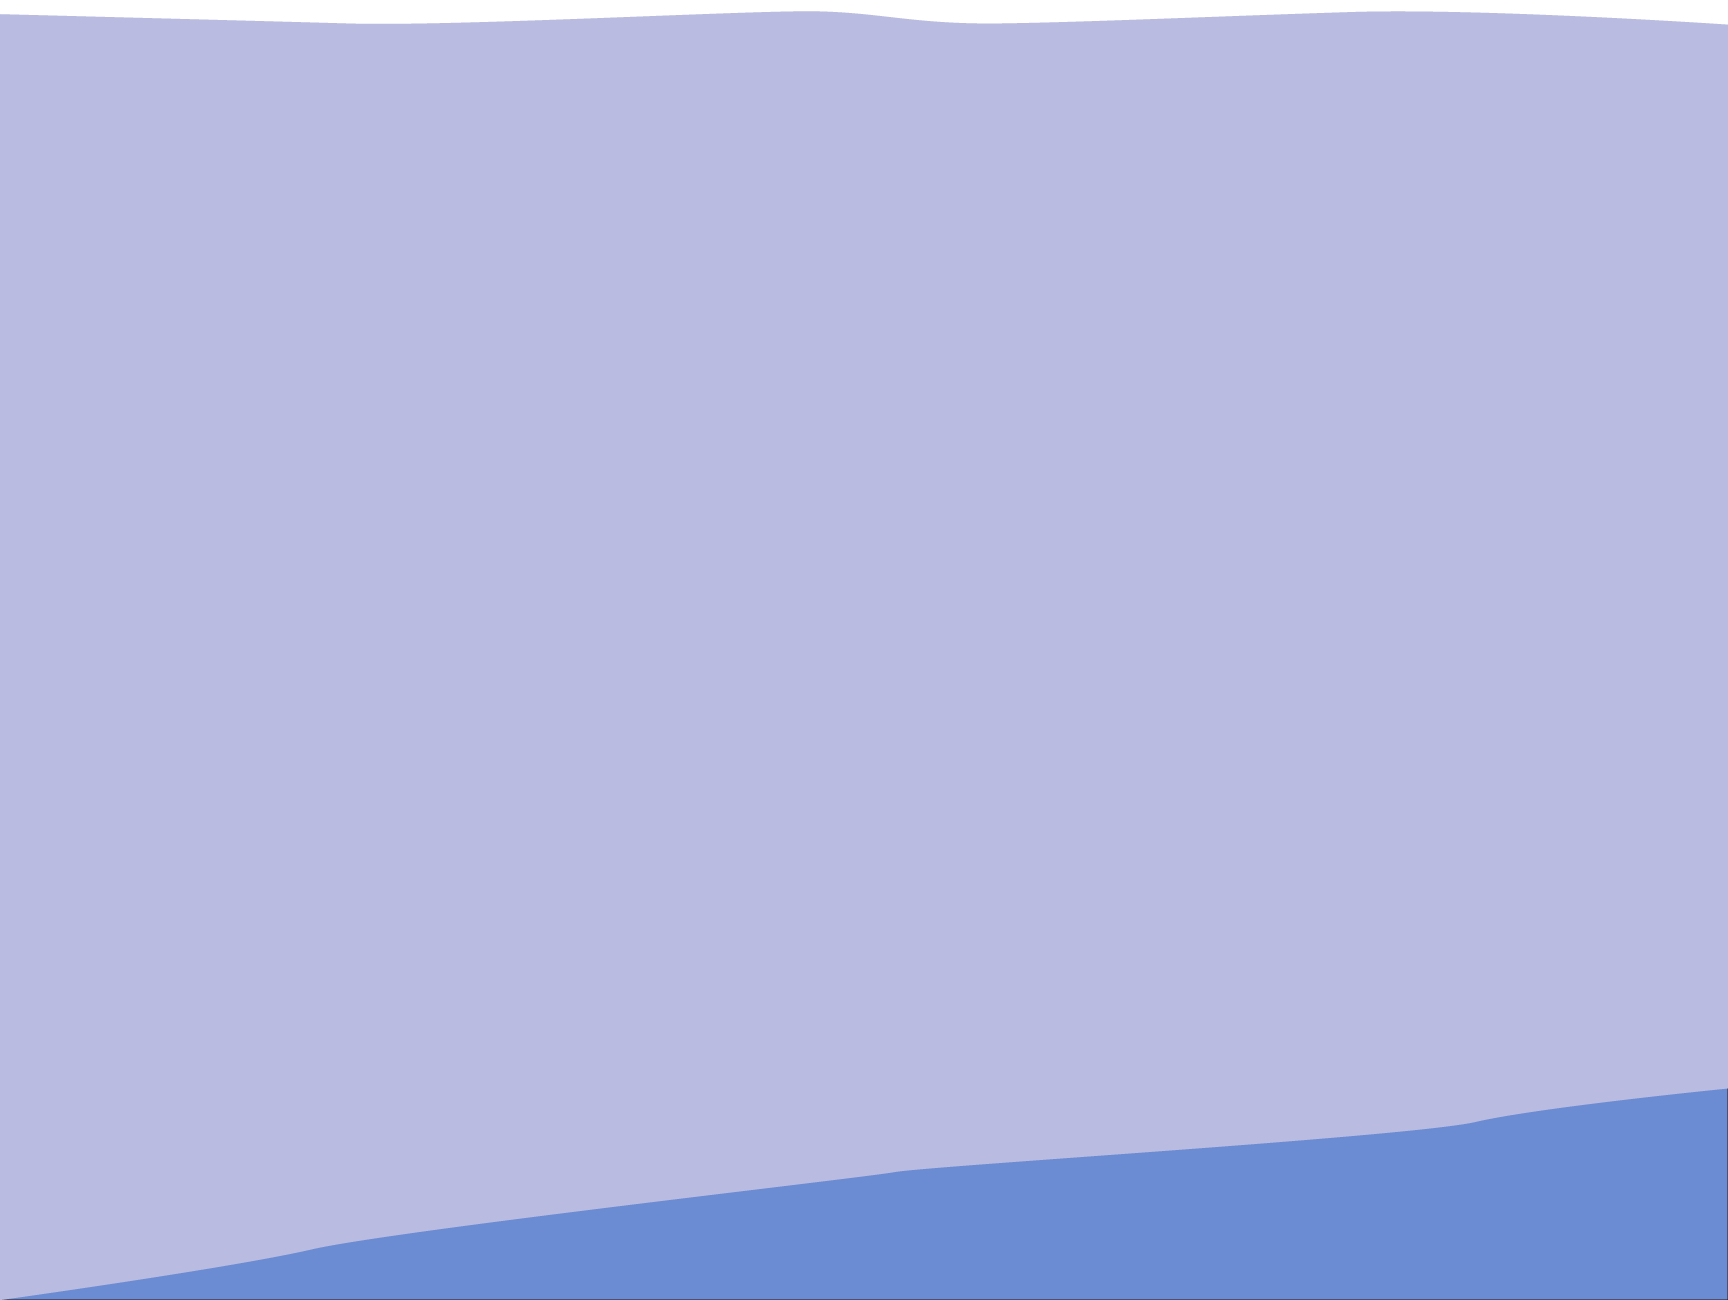
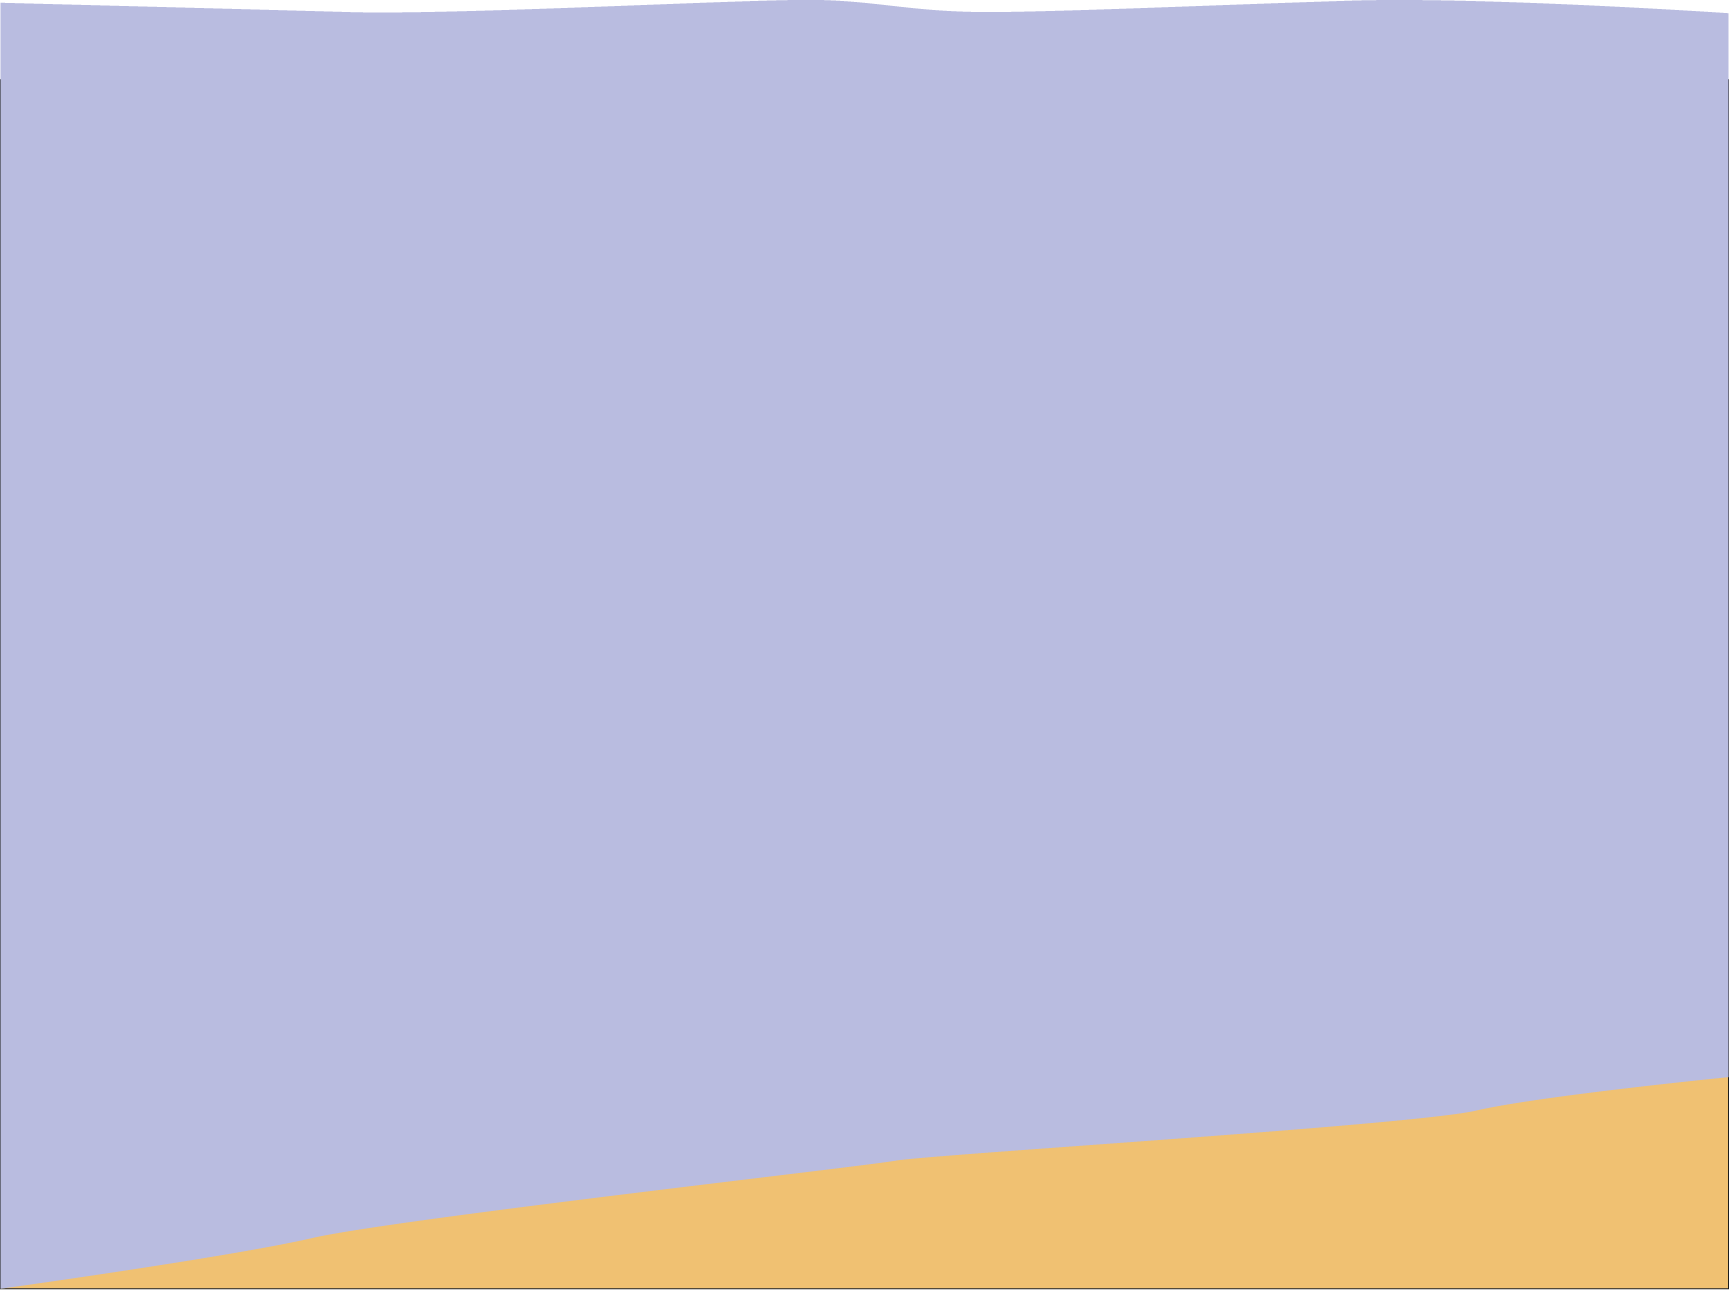
Inhalt und Background Panedodo-Weg

Changed region(s): [[0.0, 0.8372, 1.0, 1.0], [0.0, 0.0, 1.0, 0.031]]

diff --git a/index.html b/index.html
@@ -41,6 +41,7 @@
         <li><a class="tabs__link" href="#gf-brot">kei GF-Brot</a></li>
         <li><a class="tabs__link" href="#selbst">Selbst ist die Frau</a></li>
         <li><a class="tabs__link" href="#panedodo">Panedodo in Chur</a></li>
+        <li><a class="tabs__link" href="#pause">Pause</a></li>
         <li><a class="tabs__link" href="#zukunft">Zukunft</a></li>
       </ul>
       <span class="tabs__indicator" aria-hidden="true"></span>
@@ -51,12 +52,12 @@
       <div class="mise__bg" aria-hidden="true"></div>
 
       <div class="mise__content">
-        <!--<div class="title-unit mise__header">
-          <h2 class="display display--sm mise__title" style="color:white">Als alles Begann</h2>
-        </div> -->
+        <div class="title-unit mise__header">
+          <h2 class="display display--sm mise__title" style="color: #ffff">Alles begann  <br> genau hier</h2>
+        </div> 
 
         <!-- Universal 12-Column Grid (Figma: 12 Cols, 15px Gap, 30px Gutter) -->
-        <div class="grid-12 body-element">
+        <div class="grid-12 body-element" style="margin-top: -40px;">
           <!-- Bilder: Spalten 1 bis 6 (Quer: Spalten 1–2, Hoch: Spalten 3–6) -->
           <div class="body-element__media col-6 col-start-1" style="grid-column: 1 / span 6;">
             <div class="body-element__img-quer-wrap col-2 col-start-1" style="grid-column: 1 / span 2;">
@@ -69,8 +70,8 @@
 
           <!-- Text: Spalten 7 bis 12 -->
           <div class="body-element__text body-unit col-6 col-start-7" style="grid-column: 7 / span 6;">
-            <h3 class="lead body-element__title">Als alles Begann </h3>
-            <p class="body-element__desc">2015 erhält Dora, die Gründerin von Panedodo, die Diagnose Zöliakie. Damals lebt sie noch in Italien, wo das glutenfreie Angebot schon gross ist und immer weiter wächst.</p>
+            <h3 class="lead body-element__title">2015 erhält Dora, die Gründerin von Panedodo, die Diagnose Zöliakie</h3>
+            <p class="body-element__desc">Damals lebt sie noch in Italien, wo das glutenfreie Angebot schon gross ist und immer weiter wächst.</p>
           </div>
         </div>
       </div>
@@ -82,7 +83,7 @@
 
       <div class="mise__content">
         <div class="title-unit mise__header">
-          <h2 class="display display--sm mise__title" style="color: #ffff">Wo ist das <br>Glutenfreite Brot?</h2>
+          <h2 class="display display--sm mise__title" style="color: #6b8cd3">Wo ist das <br>Glutenfreite Brot?</h2>
         </div>
 
         <!-- Universal 12-Column Grid (Figma: 12 Cols, 15px Gap, 30px Gutter) -->
@@ -108,12 +109,12 @@
     </article>
 
     <!-- Selbst ist die Frau -->
-  <article class="step mise" id="gf-brot" style="margin-top: 0;">
-      <div class="gf__bg" aria-hidden="true"></div>
+  <article class="step mise" id="selbst" style="margin-top: 0;">
+      <div class="selbst__bg" aria-hidden="true"></div>
 
       <div class="mise__content">
         <div class="title-unit mise__header">
-          <h2 class="display display--sm mise__title" style="color: #ffff">Wo ist das <br>Glutenfreite Brot?</h2>
+          <h2 class="display display--sm mise__title" style="color: #6b8cd3">Selbst ist <br> die Frau</h2>
         </div>
 
         <!-- Universal 12-Column Grid (Figma: 12 Cols, 15px Gap, 30px Gutter) -->
@@ -130,8 +131,8 @@
 
           <!-- Text: Spalten 7 bis 12 -->
           <div class="body-element__text body-unit col-6 col-start-7" style="grid-column: 7 / span 6;">
-            <h3 class="lead body-element__title">2016: Umzug in die Schweiz</h3>
-            <p class="body-element__desc">2016 zieht Dora in die Schweiz und merkt schnell: Für Zölis gibt’s hier nicht viel zu holen. In den grossen Supermärkten stehen ein paar traurige, abgepackte Produkte im Regal. Im Reformhaus ist die Auswahl etwas grösser – doch auch das wird ein paar Jahre später Konkurs anmelden. Und glutenfreie Cafés oder Bäckereien? Fehlanzeige! Was also tun in dieser glutenfreien Wüste?</p>
+            <h3 class="lead body-element__title">Aus einer Idee wird Panedodo</h3>
+            <p class="body-element__desc">Im August 2023 nimmt Dora die Sache selbst in die Hand. Sie beginnt, bei sich zu Hause zu backen. Über einen Onlineshop verkauft sie ihre Kreationen zur Abholung in Chur. So entsteht Panedodo – aus einem Bedürfnis und ganz viel Leidenschaft.</p>
           </div>
         </div>
            <div class="bubble bubble--pink aufgehen__bubble" data-parallax-range="45">
@@ -141,15 +142,13 @@
 
     </article>
 
- 
-
     <!-- Panedodo in Chur -->
-    <article class="step mise" id="gf-brot" style="margin-top: 0;">
-      <div class="gf__bg" aria-hidden="true"></div>
+  <article class="step mise" id="panedodo" style="margin-top: 0;">
+      <div class="panedodo__bg" aria-hidden="true"></div>
 
-      <div class="mise__content">
+      <div class="mise__content" style="margin-top: 150px;">
         <div class="title-unit mise__header">
-          <h2 class="display display--sm mise__title" style="color: #ffff">Wo ist das <br>Glutenfreite Brot?</h2>
+          <h2 class="display display--sm mise__title" style="color: #86c4ad">Panedodo in Chur</h2>
         </div>
 
         <!-- Universal 12-Column Grid (Figma: 12 Cols, 15px Gap, 30px Gutter) -->
@@ -166,21 +165,24 @@
 
           <!-- Text: Spalten 7 bis 12 -->
           <div class="body-element__text body-unit col-6 col-start-7" style="grid-column: 7 / span 6;">
-            <h3 class="lead body-element__title">2016: Umzug in die Schweiz</h3>
-            <p class="body-element__desc">2016 zieht Dora in die Schweiz und merkt schnell: Für Zölis gibt’s hier nicht viel zu holen. In den grossen Supermärkten stehen ein paar traurige, abgepackte Produkte im Regal. Im Reformhaus ist die Auswahl etwas grösser – doch auch das wird ein paar Jahre später Konkurs anmelden. Und glutenfreie Cafés oder Bäckereien? Fehlanzeige! Was also tun in dieser glutenfreien Wüste?</p>
+            <h3 class="lead body-element__title">Glutenfreier Genuss für jeden Anlass</h3>
+            <p class="body-element__desc">Während rund eineinhalb Jahren entstehen bei Panedodo frische Brote, feine Backwaren und saisonale Spezialitäten, von Weihnachtsguetzli bis zu neuen Kreationen. Neben Privatkund:innen beliefert Dora auch Geschäftskunden, darunter das Restaurant Flavours in Chur.</p>
           </div>
         </div>
+           <div class="bubble bubble--pink aufgehen__bubble" data-parallax-range="45">
+        <span class="bubble__text">zzz...</span>
+      </div>
       </div>
 
     </article>
 
-      <!-- Panedodo in Chur -->
-    <article class="step mise" id="gf-brot" style="margin-top: 0;">
-      <div class="gf__bg" aria-hidden="true"></div>
+    <!-- Pause -->
+    <article class="step mise" id="pause" style="margin-top: 0;">
+      <div class="pause__bg" aria-hidden="true"></div>
 
       <div class="mise__content">
         <div class="title-unit mise__header">
-          <h2 class="display display--sm mise__title" style="color: #ffff">Wo ist das <br>Glutenfreite Brot?</h2>
+          <h2 class="display display--sm mise__title" style="color: #ffff">Manchmal kommt <br>das Leben <br>dazwischen</h2>
         </div>
 
         <!-- Universal 12-Column Grid (Figma: 12 Cols, 15px Gap, 30px Gutter) -->
@@ -197,27 +199,26 @@
 
           <!-- Text: Spalten 7 bis 12 -->
           <div class="body-element__text body-unit col-6 col-start-7" style="grid-column: 7 / span 6;">
-            <h3 class="lead body-element__title">2016: Umzug in die Schweiz</h3>
-            <p class="body-element__desc">2016 zieht Dora in die Schweiz und merkt schnell: Für Zölis gibt’s hier nicht viel zu holen. In den grossen Supermärkten stehen ein paar traurige, abgepackte Produkte im Regal. Im Reformhaus ist die Auswahl etwas grösser – doch auch das wird ein paar Jahre später Konkurs anmelden. Und glutenfreie Cafés oder Bäckereien? Fehlanzeige! Was also tun in dieser glutenfreien Wüste?</p>
+            <h3 class="lead body-element__title">Ab Weihnachten 2024 legt Dora wegen ihrer Mutterschaft eine Pause ein.</h3>
+            <p class="body-element__desc">Was ursprünglich nur ein Jahr dauern sollte, wird mit dem Wiedereinstieg ins Berufsleben und einem kleinen Kind schwieriger als gedacht. Deshalb bleibt Panedodo vorerst geschlossen.</p>
           </div>
         </div>
       </div>
 
     </article>
-<!--- 
-    Panedodo in Chur
-    <article class="step backen" id="panedodo">
-      <article class="step mise" id="gf-brot" style="margin-top: 0;">
-      <div class="gf__bg" aria-hidden="true"></div>
+    
+      <!-- Zukunft -->
+    <article class="step mise" id="zukunft" style="margin-top: 0;">
+      <div class="zukunft__bg" aria-hidden="true"></div>
 
       <div class="mise__content">
         <div class="title-unit mise__header">
-          <h2 class="display display--sm mise__title" style="color: #ffff">Wo ist das <br>Glutenfreite Brot?</h2>
+          <h2 class="display display--sm mise__title" style="color: #ffff">Der Onlineshop <br>schliesst</h2>
         </div>
 
-        Universal 12-Column Grid (Figma: 12 Cols, 15px Gap, 30px Gutter) 
+        <!-- Universal 12-Column Grid (Figma: 12 Cols, 15px Gap, 30px Gutter) -->
         <div class="grid-12 body-element" style="margin-top: -40px;">
-          Bilder: Spalten 1 bis 6 (Quer: Spalten 1–2, Hoch: Spalten 3–6) 
+          <!-- Bilder: Spalten 1 bis 6 (Quer: Spalten 1–2, Hoch: Spalten 3–6) -->
           <div class="body-element__media col-6 col-start-1" style="grid-column: 1 / span 6;">
             <div class="body-element__img-quer-wrap col-2 col-start-1" style="grid-column: 1 / span 2;">
               <img src="assets/panedodo-placeholderimg-quer.webp" alt="Als alles begann - Impression Italien" width="247" height="165" class="body-element__img body-element__img--quer">
@@ -227,35 +228,22 @@
             </div>
           </div>
 
-           Text: Spalten 7 bis 12 
+          <!-- Text: Spalten 7 bis 12 -->
           <div class="body-element__text body-unit col-6 col-start-7" style="grid-column: 7 / span 6;">
-            <h3 class="lead body-element__title">2016: Umzug in die Schweiz</h3>
-            <p class="body-element__desc">2016 zieht Dora in die Schweiz und merkt schnell: Für Zölis gibt’s hier nicht viel zu holen. In den grossen Supermärkten stehen ein paar traurige, abgepackte Produkte im Regal. Im Reformhaus ist die Auswahl etwas grösser – doch auch das wird ein paar Jahre später Konkurs anmelden. Und glutenfreie Cafés oder Bäckereien? Fehlanzeige! Was also tun in dieser glutenfreien Wüste?</p>
+            <h3 class="lead body-element__title">Dieses Kapitel ist abgeschlossen.</h3>
+            <p class="body-element__desc">Doras Traum von einer eigenen glutenfreien Bäckerei lebt trozdem weiter. Sie sucht nach einem bezahlbaren Backraum in Chur und Umgebung. Vielleicht wartet dort bereits das nächste Kapitel von Panedodo.</p>
           </div>
+          <div class="bubble bubble--pink aufgehen__bubble" data-parallax-range="45">
+        <span class="bubble__text">der Traum bleibt!</span>
+      </div>
         </div>
       </div>
-      
 
     </article>
-      <div class="backen__bg" aria-hidden="true"></div>
-      <div class="body-unit backen__body">
-        <p class="lead">Verpacken und<br>Frisch zu Da mama</p>
-        <p>Vom heissen Ofen geht es ohne Umwege direkt zu Da Mama in der Churer Altstadt – und von dort zackig zu dir! Hier greife ich selbst beherzt zum Papiersack: Jedes einzelne Gebäck wird mit ganz viel Liebe von Hand verpackt. Ich finde dass echtes, ehrliches Handwerk am besten in einer umweltfreundlichen Hülle aufgehoben ist, die das Brot perfekt atmen lässt. So bleibt die Kruste genau so extrem knusprig und rösch, wie sie aus der Backstube kam. Das Warten hat damit endlich ein Ende und die Vorfreude darf offiziell steigen.</p>
-        <a class="btn btn--yellow" href="https://www.damammabistro.com/de?srsltid=AU7gw4VRH6POhxDmT8XnfENf3p4I5NiO3fcsYeMDEDsCmp6ExcHRuqJh">Mehr erfahren</a>
-      </div>
-    </article>
 
-     Zukunft 
-    <article class="step mampf" id="zukunft">
-      <div class="title-unit">
-        <p class="eyebrow">und zum Schluss</p>
-        <h3 class="display">Mampf!</h3>
-      </div>
-    </article>
-  </section>
-   -->
+ 
   <!-- ============ QUIZ ============ -->
-  <section class="quiz" id="quiz" aria-labelledby="quiz-title">
+  <section class="quiz" id="quiz" aria-labelledby="quiz-title" style="margin-top: 200px;">
     <div class="quiz__bg" aria-hidden="true"></div>
     <div class="title-unit title-unit--pink">
       <p class="eyebrow">Quiz</p>
@@ -278,11 +266,8 @@
     </div>
   </section>
 
-  <!-- ============ SHOP ============ -->
-
-
   <!-- ============ FAQ ============ -->
-  <section class="faq" id="faq" aria-labelledby="faq-title">
+  <section class="faq" id="faq" aria-labelledby="faq-title" style="margin-top: 200px;">
     <div class="title-unit title-unit--yellow">
       <p class="eyebrow">FAQ</p>
       <h2 id="faq-title" class="display" style="margin-bottom: 100px;" data-title-parallax-range="35">Hää Was?!</h2>
@@ -290,7 +275,6 @@
 
     <div class="faq__container">
       <div class="faq__block">
-        <h3 class="faq__heading">Pandedodo</h3>
         <details class="faq__item">
           <summary>Was ist denn bitte Panedodo?</summary>
           <p>Panedodo ist eine Hausbäckerei im Raum Chur. Sie funktioniert nach dem Prinzip «online bestellen, vor Ort abholen». Alle Backwaren werden auf Anfrage frisch produziert.</p>
@@ -304,7 +288,7 @@
   </section>
 
   <!-- ============ KONTAKT + FOOTER ============ -->
-  <div class="green-zone">
+  <div class="green-zone" style="margin-top: 200px;">
     <section class="kontakt" id="kontakt" aria-labelledby="kontakt-title">
       <div class="title-unit">
         <p class="eyebrow">Kontakt</p>

diff --git a/css/styles.css b/css/styles.css
@@ -371,7 +371,7 @@ position: relative; z-index: 1;
 
 .gf__bg {
   position: absolute; inset: 0;
-  background: url("../assets/gf-brot-bg.png") center / 100% 100% no-repeat;
+  background: url("../assets/bg-gf-brot.webp") center / 100% 100% no-repeat;
   z-index: 0;
 }
 
